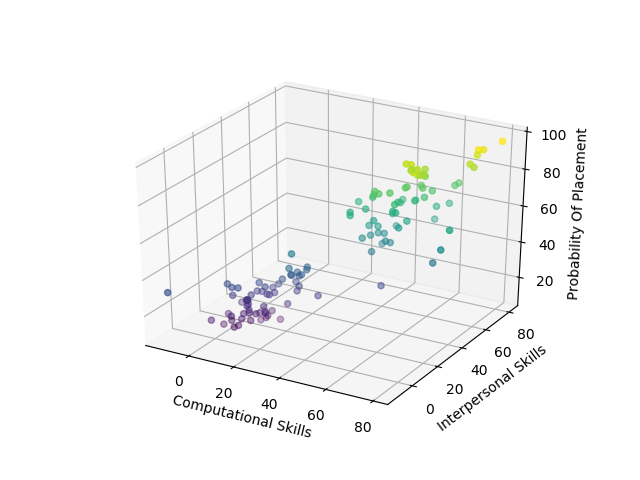
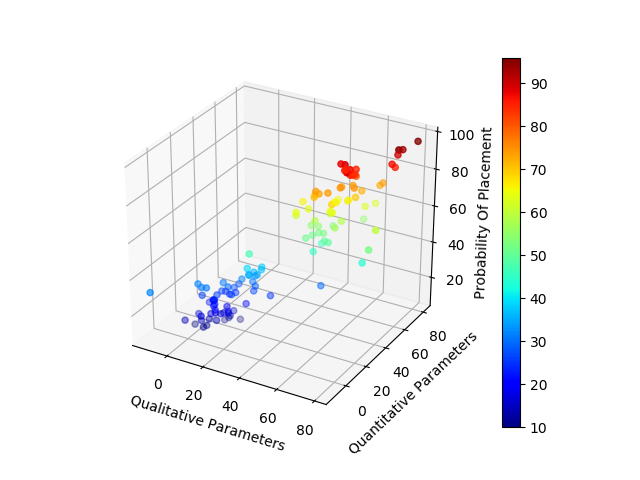
Added key to the 3D plot

Changed region(s): [[0.1875, 0.0938, 0.9375, 0.9375], [0.4375, 0.1562, 0.4688, 0.1875], [0.375, 0.1562, 0.4062, 0.1875]]

diff --git a/tsne.py b/tsne.py
@@ -49,9 +49,10 @@ w16=data[:,15]
 x=(w1+w3+w8+w10+w12+w13+w14+w15)/8
 y=(w2+w4+w5+w6+w7+w9+w11+w15)/8
 z=w16
-ax.scatter(x,y,z, marker='o', c=z, cmap='viridis')
+three_d = ax.scatter(x,y,z, marker='o', c=z, cmap='jet')
+plt.colorbar(three_d)
 
-ax.set_xlabel('Computational Skills')
-ax.set_ylabel('Interpersonal Skills')
+ax.set_xlabel('Qualitative Parameters')
+ax.set_ylabel('Quantitative Parameters')
 ax.set_zlabel('Probability Of Placement')
 plt.show()
